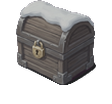
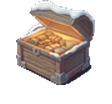
Add fourth art batch: variants, real opened cache, foreground silhouette
- Second variants for rocks, bushes, flowers, crystals, birches, and
  violet/blue pines; real opened-cache art replaces the derived one
- Foreground pine: the painted tree converted to a dark navy silhouette
  with a faint cool rim, scaled to the foreground slot

Claude-Session: https://claude.ai/code/session_01HUi3HoYtCjfdjaU6x17YXp

diff --git a/index.html b/index.html
@@ -1729,11 +1729,11 @@ const ART={
     pines:     {files:['pine_1.png','pine_2.png','pine_3.png','pine_4.png','pine_5.png','pine_6.png'], multi:true, w:120, h:190, ox:60, oy:178},   // snowy pines (Signpost Woods + village)
     pinesV:    {files:['pine_violet_1.png','pine_violet_2.png','pine_violet_3.png','pine_violet_4.png'], multi:true, w:120, h:190, ox:60, oy:178},   // violet pines (Lantern Hollow)
     pinesB:    {files:['pine_blue_1.png','pine_blue_2.png','pine_blue_3.png'], multi:true, w:120, h:190, ox:60, oy:178},   // ice-blue pines (Crystal Reach)
-    birch:     {files:['birch_1.png'], multi:true, w:170, h:210, ox:85, oy:200},   // bare white birches
-    rocks:     {files:['rock_1.png'], multi:true, w:64,  h:52,  ox:32, oy:40},
-    bush:      {files:['bush_1.png'], multi:true, w:70,  h:50,  ox:35, oy:40},    // berry bushes
-    flowers:   {files:['flowers_1.png'], multi:true, w:40,  h:30,  ox:20, oy:22},    // winter roses
-    crystals:  {files:['crystals_1.png'], multi:true, w:110, h:120, ox:55, oy:104},
+    birch:     {files:['birch_1.png','birch_2.png'], multi:true, w:170, h:210, ox:85, oy:200},   // bare white birches
+    rocks:     {files:['rock_1.png','rock_2.png'], multi:true, w:64,  h:52,  ox:32, oy:40},
+    bush:      {files:['bush_1.png','bush_2.png'], multi:true, w:70,  h:50,  ox:35, oy:40},    // berry bushes
+    flowers:   {files:['flowers_1.png','flowers_2.png'], multi:true, w:40,  h:30,  ox:20, oy:22},    // winter roses
+    crystals:  {files:['crystals_1.png','crystals_2.png'], multi:true, w:110, h:120, ox:55, oy:104},
     cabins:    {files:['cabin_1.png','cabin_3.png','cabin_4.png','cabin_5.png'], multi:true, w:246, h:218, ox:123,oy:198,
                 info:{w:176,bodyH:74,roofH:98,windows:[[-53,-45],[53,-45]],chimney:[42,-146]},   // default
                 // per-file window/chimney positions (from tools/prep_art.py) so glow + smoke line up
@@ -1754,7 +1754,7 @@ const ART={
     ice:       {files:['ice_shell.png'], w:84,  h:120, ox:42, oy:104},               // frozen-stone overlay (semi-transparent)
     cache:     {files:['cache_closed.png'], w:56,  h:52,  ox:28, oy:42},                // closed supply cache
     cacheOpen: {files:['cache_open.png'], w:56,  h:52,  ox:28, oy:42},
-    fgPine:    {files:[], w:320, h:520, ox:160,oy:515},               // dark foreground silhouette
+    fgPine:    {files:['fg_pine.png'], w:320, h:520, ox:160,oy:515},               // dark foreground silhouette
   },
   // Player sprite sheet: rows = down, left, right, up; `frames` walk frames per row.
   player:{file:'', fw:128, fh:160, frames:4, w:44, h:55, ox:22, oy:52},

diff --git a/src/content/00_art.js b/src/content/00_art.js
@@ -14,11 +14,11 @@ const ART={
     pines:     {files:['pine_1.png','pine_2.png','pine_3.png','pine_4.png','pine_5.png','pine_6.png'], multi:true, w:120, h:190, ox:60, oy:178},   // snowy pines (Signpost Woods + village)
     pinesV:    {files:['pine_violet_1.png','pine_violet_2.png','pine_violet_3.png','pine_violet_4.png'], multi:true, w:120, h:190, ox:60, oy:178},   // violet pines (Lantern Hollow)
     pinesB:    {files:['pine_blue_1.png','pine_blue_2.png','pine_blue_3.png'], multi:true, w:120, h:190, ox:60, oy:178},   // ice-blue pines (Crystal Reach)
-    birch:     {files:['birch_1.png'], multi:true, w:170, h:210, ox:85, oy:200},   // bare white birches
-    rocks:     {files:['rock_1.png'], multi:true, w:64,  h:52,  ox:32, oy:40},
-    bush:      {files:['bush_1.png'], multi:true, w:70,  h:50,  ox:35, oy:40},    // berry bushes
-    flowers:   {files:['flowers_1.png'], multi:true, w:40,  h:30,  ox:20, oy:22},    // winter roses
-    crystals:  {files:['crystals_1.png'], multi:true, w:110, h:120, ox:55, oy:104},
+    birch:     {files:['birch_1.png','birch_2.png'], multi:true, w:170, h:210, ox:85, oy:200},   // bare white birches
+    rocks:     {files:['rock_1.png','rock_2.png'], multi:true, w:64,  h:52,  ox:32, oy:40},
+    bush:      {files:['bush_1.png','bush_2.png'], multi:true, w:70,  h:50,  ox:35, oy:40},    // berry bushes
+    flowers:   {files:['flowers_1.png','flowers_2.png'], multi:true, w:40,  h:30,  ox:20, oy:22},    // winter roses
+    crystals:  {files:['crystals_1.png','crystals_2.png'], multi:true, w:110, h:120, ox:55, oy:104},
     cabins:    {files:['cabin_1.png','cabin_3.png','cabin_4.png','cabin_5.png'], multi:true, w:246, h:218, ox:123,oy:198,
                 info:{w:176,bodyH:74,roofH:98,windows:[[-53,-45],[53,-45]],chimney:[42,-146]},   // default
                 // per-file window/chimney positions (from tools/prep_art.py) so glow + smoke line up
@@ -39,7 +39,7 @@ const ART={
     ice:       {files:['ice_shell.png'], w:84,  h:120, ox:42, oy:104},               // frozen-stone overlay (semi-transparent)
     cache:     {files:['cache_closed.png'], w:56,  h:52,  ox:28, oy:42},                // closed supply cache
     cacheOpen: {files:['cache_open.png'], w:56,  h:52,  ox:28, oy:42},
-    fgPine:    {files:[], w:320, h:520, ox:160,oy:515},               // dark foreground silhouette
+    fgPine:    {files:['fg_pine.png'], w:320, h:520, ox:160,oy:515},               // dark foreground silhouette
   },
   // Player sprite sheet: rows = down, left, right, up; `frames` walk frames per row.
   player:{file:'', fw:128, fh:160, frames:4, w:44, h:55, ox:22, oy:52},
